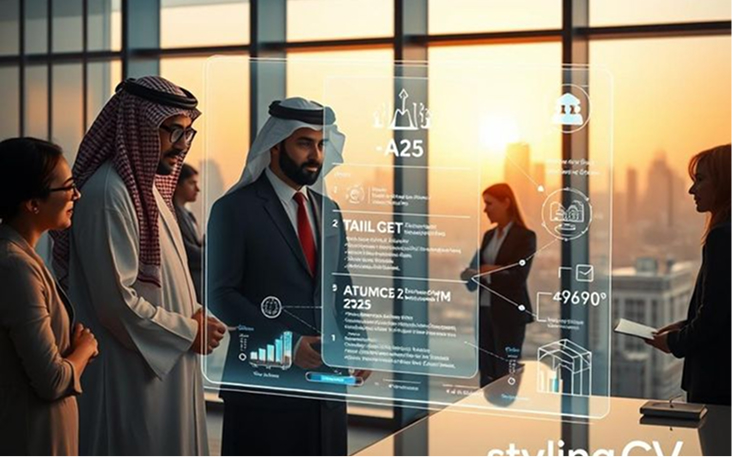
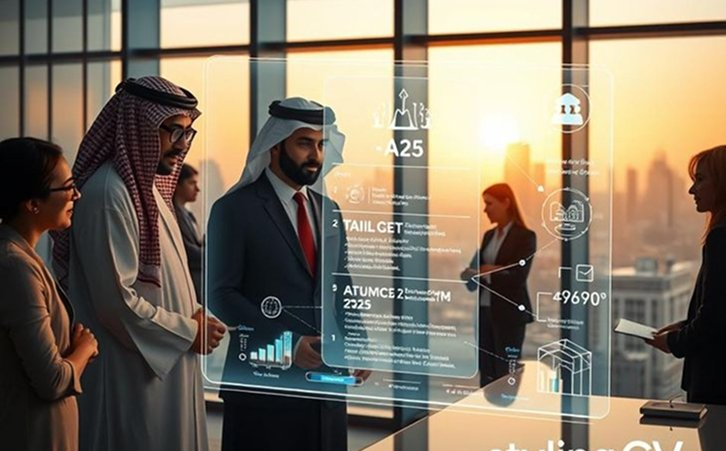
check -3

diff --git a/home4.html b/home4.html
@@ -724,7 +724,7 @@
                 <img src="assets/img/testimonal-img-18.jpg" alt="testimonal image">
               </div>
               <div class="cs_testimonial_info">
-                <div class="cs_rating" data-rating="5">
+                <div class="cs_rating cs_mb_16" data-rating="5">
                   <div class="cs_rating_percentage"></div>
                 </div>
                 <p class="cs_mb_20">Background in managing projects Is  and building successful strategies, a she brings innovation and efficiency to every challenge.</p>
@@ -737,7 +737,7 @@
                   <img src="assets/img/testimonal-img-19.jpg" alt="testimonal image">
                 </div>
                 <div class="cs_testimonial_info">
-                  <div class="cs_rating" data-rating="5">
+                  <div class="cs_rating cs_mb_16" data-rating="5">
                     <div class="cs_rating_percentage"></div>
                   </div>
                   <p class="cs_mb_20">Funding and finance are essential pillars of business growth, providing the resources needed to launch, expand, and sustain operations.</p>
@@ -750,7 +750,7 @@
                   <img src="assets/img/testimonal-img-20.jpg" alt="testimonal image">
                 </div>
                 <div class="cs_testimonial_info">
-                  <div class="cs_rating" data-rating="5">
+                  <div class="cs_rating cs_mb_16" data-rating="5">
                     <div class="cs_rating_percentage"></div>
                   </div>
                   <p class="cs_mb_20">Development & implementation is the process where ideas are transformed into real, functional solutions with precision and efficiency.</p>
@@ -765,7 +765,7 @@
                 <img src="assets/img/testimonal-img-18.jpg" alt="testimonal image">
               </div>
               <div class="cs_testimonial_info">
-                <div class="cs_rating" data-rating="5">
+                <div class="cs_rating cs_mb_16" data-rating="5">
                   <div class="cs_rating_percentage"></div>
                 </div>
                 <p class="cs_mb_20">Background in managing projects Is  and building successful strategies, a she brings innovation and efficiency to every challenge.</p>
@@ -778,7 +778,7 @@
                   <img src="assets/img/testimonal-img-19.jpg" alt="testimonal image">
                 </div>
                 <div class="cs_testimonial_info">
-                  <div class="cs_rating" data-rating="5">
+                  <div class="cs_rating cs_mb_16" data-rating="5">
                     <div class="cs_rating_percentage"></div>
                   </div>
                   <p class="cs_mb_20">Funding and finance are essential pillars of business growth, providing the resources needed to launch, expand, and sustain operations.</p>
@@ -791,7 +791,7 @@
                   <img src="assets/img/testimonal-img-20.jpg" alt="testimonal image">
                 </div>
                 <div class="cs_testimonial_info">
-                  <div class="cs_rating" data-rating="5">
+                  <div class="cs_rating cs_mb_16" data-rating="5">
                     <div class="cs_rating_percentage"></div>
                   </div>
                   <p class="cs_mb_20">Development & implementation is the process where ideas are transformed into real, functional solutions with precision and efficiency.</p>
@@ -808,7 +808,7 @@
                 <img src="assets/img/testimonal-img-21.jpg" alt="testimonal image">
               </div>
               <div class="cs_testimonial_info">
-                <div class="cs_rating" data-rating="5">
+                <div class="cs_rating cs_mb_16" data-rating="5">
                   <div class="cs_rating_percentage"></div>
                 </div>
                 <p class="cs_mb_20">Direct Hiring is a straightforward  employers select and hire candidates directly without intermediaries this is  reduces costs, and allows.</p>
@@ -821,7 +821,7 @@
                   <img src="assets/img/testimonal-img-22.jpg" alt="testimonal image">
                 </div>
                 <div class="cs_testimonial_info">
-                  <div class="cs_rating" data-rating="5">
+                  <div class="cs_rating cs_mb_16" data-rating="5">
                     <div class="cs_rating_percentage"></div>
                   </div>
                   <p class="cs_mb_20">Discover and understand your brand and audience is the first step toward  business identity. We analyze your is market, customer behavior.</p>
@@ -834,7 +834,7 @@
                   <img src="assets/img/testimonal-img-23.jpg" alt="testimonal image">
                 </div>
                 <div class="cs_testimonial_info">
-                  <div class="cs_rating" data-rating="5">
+                  <div class="cs_rating cs_mb_16" data-rating="5">
                     <div class="cs_rating_percentage"></div>
                   </div>
                   <p class="cs_mb_20">Quanta Agency revolutionizes work with the power of AI, helping businesses operate smarter, faster, and more efficiently.</p>
@@ -849,7 +849,7 @@
                 <img src="assets/img/testimonal-img-21.jpg" alt="testimonal image">
               </div>
               <div class="cs_testimonial_info">
-                <div class="cs_rating" data-rating="5">
+                <div class="cs_rating cs_mb_16" data-rating="5">
                   <div class="cs_rating_percentage"></div>
                 </div>
                 <p class="cs_mb_20">Direct Hiring is a straightforward  employers select and hire candidates directly without intermediaries this is  reduces costs, and allows.</p>
@@ -862,7 +862,7 @@
                   <img src="assets/img/testimonal-img-22.jpg" alt="testimonal image">
                 </div>
                 <div class="cs_testimonial_info">
-                  <div class="cs_rating" data-rating="5">
+                  <div class="cs_rating cs_mb_16" data-rating="5">
                     <div class="cs_rating_percentage"></div>
                   </div>
                   <p class="cs_mb_20">Discover and understand your brand and audience is the first step toward  business identity. We analyze your is market, customer behavior.</p>
@@ -875,7 +875,7 @@
                   <img src="assets/img/testimonal-img-23.jpg" alt="testimonal image">
                 </div>
                 <div class="cs_testimonial_info">
-                  <div class="cs_rating" data-rating="5">
+                  <div class="cs_rating cs_mb_16" data-rating="5">
                     <div class="cs_rating_percentage"></div>
                   </div>
                   <p class="cs_mb_20">Quanta Agency revolutionizes work with the power of AI, helping businesses operate smarter, faster, and more efficiently.</p>

diff --git a/assets/sass/shortcode/_layouts.scss b/assets/sass/shortcode/_layouts.scss
@@ -48,10 +48,26 @@
   }
 }
 
-@media (max-width: 575px) {
+@media (max-width: 991px) {
   .cs_circle_text {
     width: 140px;
     height: 140px;
+  }
+
+  svg {
+    width: 20px;
+    height: 20px;
+  }
+}
+
+@media (max-width: 575px) {
+  .cs_circle_text {
+    width: 100px;
+    height: 100px;
+  }
+  svg {
+    width: 17px;
+    height: 17px;
   }
 }
 

diff --git a/assets/sass/shortcode/_hero.scss b/assets/sass/shortcode/_hero.scss
@@ -190,15 +190,8 @@
     }
 
     .cs_circle_text {
-      width: 140px;
-      height: 140px;
       bottom: -75px;
       right: 30px;
-
-      svg {
-        width: 20px;
-        height: 20px;
-      }
     }
 
     .swiper-wrapper {
@@ -400,11 +393,6 @@
         .cs_circle_text {
           max-width: 100px;
           max-height: 100px;
-
-          svg {
-            width: 20px;
-            height: 20px;
-          }
         }
       }
     }

diff --git a/assets/sass/shortcode/_testimonial.scss b/assets/sass/shortcode/_testimonial.scss
@@ -177,6 +177,10 @@
       object-fit: cover;
     }
   }
+
+  .cs_rating {
+    color: #fc0;
+  }
 }
 
 .cs_testimonial_style_5 {